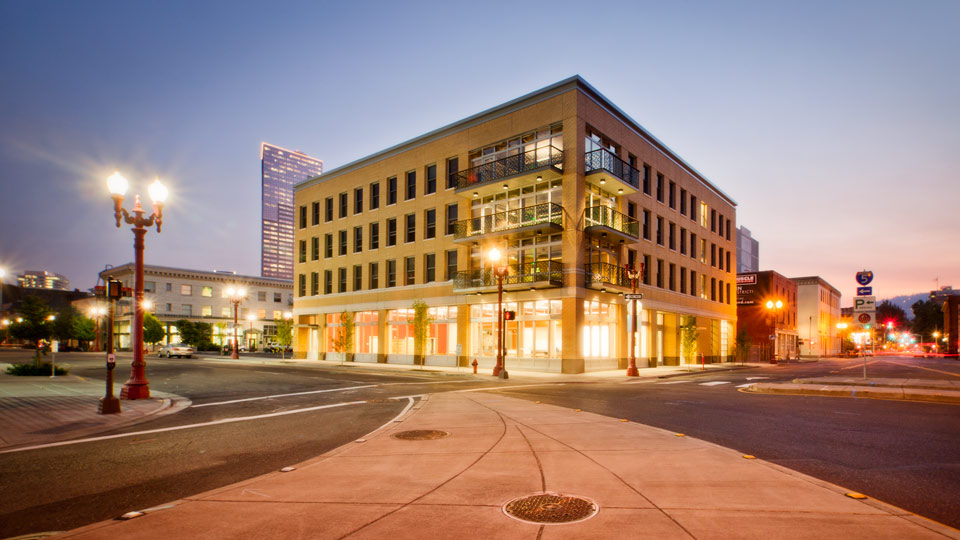
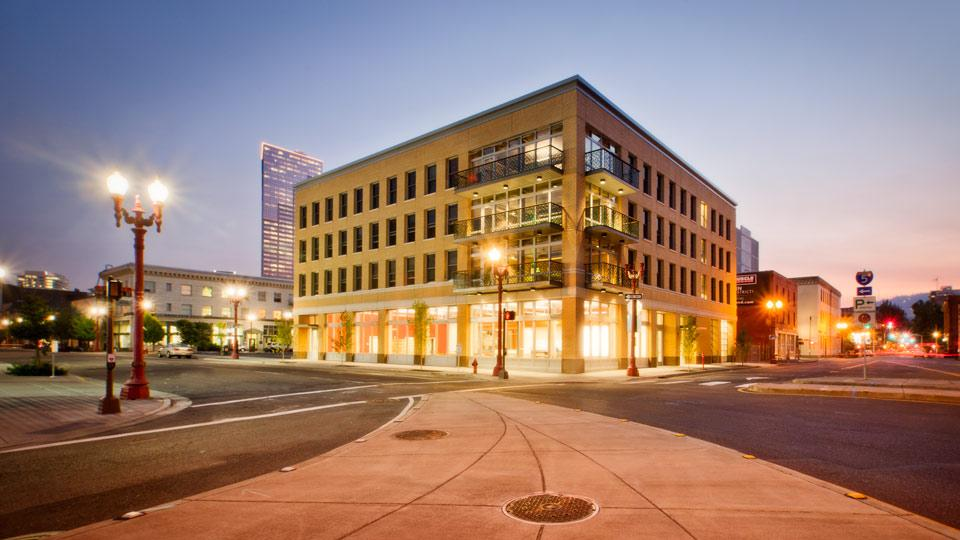
story/AAD-53 (Documentation, Accessibility, & Efficiency) (#19)
* README.md First Draft

* Efficiency - Top-Main Image Size (91.47% Reduced)

* Efficiency - Tri-Home Image Resize-Reductions

* Documentation - Quick Blade Comments/Documentation

* Efficiency - Removing Commented Code (Echo API)

* Documentation - README.md, normalize.css Credits

* Rebranding Cascade - README.md First Draft

* Rebranding Cascade - Welcome & Header blades

* Rebranding Cascade - Various blades & misc.

* merge for pull request #19 (11/17/22)

* Additional map styling (#20)

* Getting coordinate data out of the browser

Console logs the users current location. This will prompt the user to allow their location data being used

* Rebasing off of develop

Updating the branch to now have the changes from develop. Outputs current coords to the console for use in search filters

* Setting up mapbox

Getting basic mapbox displaying and setting up the files needed to run everything

* Adding navigation controls

Added navigation controls to the map, allowing users to input a starting and finishing location and choosing which mode of transportation they want to use. Need to investigate if there is a way to get trimet data for transit lines

* Generate map of shelter locations

* Add shelter marker popup features

* Make route directions responsive

* Integrate map with info page

* Added additional options to get current location

* Additional styling and coordinating map colors to website

* Consistency pass (#21)

* First pass on main page
[…]

diff --git a/resources/js/bootstrap.js b/resources/js/bootstrap.js
@@ -13,24 +13,3 @@ import axios from 'axios';
 window.axios = axios;
 
 window.axios.defaults.headers.common['X-Requested-With'] = 'XMLHttpRequest';
-
-/**
- * Echo exposes an expressive API for subscribing to channels and listening
- * for events that are broadcast by Laravel. Echo and event broadcasting
- * allows your team to easily build robust real-time web applications.
- */
-
-// import Echo from 'laravel-echo';
-
-// import Pusher from 'pusher-js';
-// window.Pusher = Pusher;
-
-// window.Echo = new Echo({
-//     broadcaster: 'pusher',
-//     key: import.meta.env.VITE_PUSHER_APP_KEY,
-//     wsHost: import.meta.env.VITE_PUSHER_HOST ?? `ws-${import.meta.env.VITE_PUSHER_APP_CLUSTER}.pusher.com`,
-//     wsPort: import.meta.env.VITE_PUSHER_PORT ?? 80,
-//     wssPort: import.meta.env.VITE_PUSHER_PORT ?? 443,
-//     forceTLS: (import.meta.env.VITE_PUSHER_SCHEME ?? 'https') === 'https',
-//     enabledTransports: ['ws', 'wss'],
-// });

diff --git a/public/css/custom.css b/public/css/custom.css
@@ -1,3 +1,12 @@
+
+/*
+Portland Aid Guide's color-palate:
+#F0EBE3 Tan
+#E4DCCF Dark Tan
+#7D9D9C Light Green
+#576F72 Dark Green
+*/
+
 h1 {
     color: #576F72;
 }
@@ -59,7 +68,6 @@ h1 {
     --bs-btn-active-color: #F0EBE3;
     --bs-btn-active-bg: #576F72;
 }
-
 
 .form-check-input {
     box-shadow: rgba(0, 0, 0, 0.24) 0px 3px 8px;

diff --git a/resources/views/includes/header.blade.php b/resources/views/includes/header.blade.php
@@ -1,3 +1,10 @@
+<!--
+    Portland Aid Guide, SF '22
+    header.blade.php - Contains important front-end resources.
+    Uses Google Fonts, normalize.css v8.0.1. (MIT License | github.com/necolas/normalize.css),
+    Bootstrap (CSS & JS), Axios, jQuery, Popper.js, and FontAwesome Kit (JavaScript).
+-->
+
 <!DOCTYPE html>
 <html lang="{{ str_replace('_', '-', app()->getLocale()) }}">
     <head>
@@ -13,7 +20,7 @@
 
         <!-- Styles -->
         <style>
-            /*! normalize.css v8.0.1 | MIT License | github.com/necolas/normalize.css */
+            /*! See header comment for credits. */
             html{line-height:1.15;-webkit-text-size-adjust:100%}body{margin:0}a{background-color:transparent}[hidden]{display:none}html{font-family:system-ui,-apple-system,BlinkMacSystemFont,Segoe UI,Roboto,Helvetica Neue,Arial,Noto Sans,sans-serif,Apple Color Emoji,Segoe UI Emoji,Segoe UI Symbol,Noto Color Emoji;line-height:1.5}*,:after,:before{box-sizing:border-box;border:0 solid #e2e8f0}a{color:inherit;text-decoration:inherit}svg,video{display:block;vertical-align:middle}video{max-width:100%;height:auto}.bg-white{--bg-opacity:1;background-color:#fff;background-color:rgba(255,255,255,var(--bg-opacity))}.bg-gray-100{--bg-opacity:1;background-color:#f7fafc;background-color:rgba(247,250,252,var(--bg-opacity))}.border-gray-200{--border-opacity:1;border-color:#edf2f7;border-color:rgba(237,242,247,var(--border-opacity))}.border-t{border-top-width:1px}.flex{display:flex}.grid{display:grid}.hidden{display:none}.items-center{align-items:center}.justify-center{justify-content:center}.font-semibold{font-weight:600}.h-5{height:1.25rem}.h-8{height:2rem}.h-16{height:4rem}.text-sm{font-size:.875rem}.text-lg{font-size:1.125rem}.leading-7{line-height:1.75rem}.mx-auto{margin-left:auto;margin-right:auto}.ml-1{margin-left:.25rem}.mt-2{margin-top:.5rem}.mr-2{margin-right:.5rem}.ml-2{margin-left:.5rem}.mt-4{margin-top:1rem}.ml-4{margin-left:1rem}.mt-8{margin-top:2rem}.ml-12{margin-left:3rem}.-mt-px{margin-top:-1px}.max-w-6xl{max-width:72rem}.min-h-screen{min-height:100vh}.overflow-hidden{overflow:hidden}.p-6{padding:1.5rem}.py-4{padding-top:1rem;padding-bottom:1rem}.px-6{padding-left:1.5rem;padding-right:1.5rem}.pt-8{padding-top:2rem}.fixed{position:fixed}.relative{position:relative}.top-0{top:0}.right-0{right:0}.shadow{box-shadow:0 1px 3px 0 rgba(0,0,0,.1),0 1px 2px 0 rgba(0,0,0,.06)}.text-center{text-align:center}.text-gray-200{--text-opacity:1;color:#edf2f7;color:rgba(237,242,247,var(--text-opacity))}.text-gray-300{--text-opacity:1;color:#e2e8f0;color:rgba(226,232,240,var(--text-opacity))}.text-gray-400{--text-opacity:1;color:#cbd5e0;color:rgba(203,213,224,var(--text-opacity))}.text-gray-500{--text-opacity:1;color:#a0aec0;color:rgba(160,174,192,var(--text-opacity))}.text-gray-600{--text-opacity:1;color:#718096;color:rgba(113,128,150,var(--text-opacity))}.text-gray-700{--text-opacity:1;color:#4a5568;color:rgba(74,85,104,var(--text-opacity))}.text-gray-900{--text-opacity:1;color:#1a202c;color:rgba(26,32,44,var(--text-opacity))}.underline{text-decoration:underline}.antialiased{-webkit-font-smoothing:antialiased;-moz-osx-font-smoothing:grayscale}.w-5{width:1.25rem}.w-8{width:2rem}.w-auto{width:auto}.grid-cols-1{grid-template-columns:repeat(1,minmax(0,1fr))}@media (min-width:640px){.sm\:rounded-lg{border-radius:.5rem}.sm\:block{display:block}.sm\:items-center{align-items:center}.sm\:justify-start{justify-content:flex-start}.sm\:justify-between{justify-content:space-between}.sm\:h-20{height:5rem}.sm\:ml-0{margin-left:0}.sm\:px-6{padding-left:1.5rem;padding-right:1.5rem}.sm\:pt-0{padding-top:0}.sm\:text-left{text-align:left}.sm\:text-right{text-align:right}}@media (min-width:768px){.md\:border-t-0{border-top-width:0}.md\:border-l{border-left-width:1px}.md\:grid-cols-2{grid-template-columns:repeat(2,minmax(0,1fr))}}@media (min-width:1024px){.lg\:px-8{padding-left:2rem;padding-right:2rem}}@media (prefers-color-scheme:dark){.dark\:bg-gray-800{--bg-opacity:1;background-color:#2d3748;background-color:rgba(45,55,72,var(--bg-opacity))}.dark\:bg-gray-900{--bg-opacity:1;background-color:#1a202c;background-color:rgba(26,32,44,var(--bg-opacity))}.dark\:border-gray-700{--border-opacity:1;border-color:#4a5568;border-color:rgba(74,85,104,var(--border-opacity))}.dark\:text-white{--text-opacity:1;color:#fff;color:rgba(255,255,255,var(--text-opacity))}.dark\:text-gray-400{--text-opacity:1;color:#cbd5e0;color:rgba(203,213,224,var(--text-opacity))}.dark\:text-gray-500{--tw-text-opacity:1;color:#6b7280;color:rgba(107,114,128,var(--tw-text-opacity))}}
         </style>
 

diff --git a/resources/views/mapView.blade.php b/resources/views/mapView.blade.php
@@ -1,4 +1,8 @@
-
+<!--
+    Portland Aid Guide, SF '22
+    mapView.blade.php - Contains implementation of the Mapbox.com API for displaying the Portland Aid Guide map & shelter locations.
+    See https://mapbox.com for more API details for further improvements & development.
+-->
 
 @extends('includes.header')
 <script src='https://api.mapbox.com/mapbox-gl-js/v2.10.0/mapbox-gl.js'></script>

diff --git a/resources/views/welcome.blade.php b/resources/views/welcome.blade.php
@@ -1,6 +1,10 @@
+<!--
+    Portland Aid Guide, SF '22
+    welcome.blade.php - The Portland Aid Guide welcome page.
+    Uses Carousel & FontAwesome Kit (JavaScript)
+-->
+
 @extends('includes.header')
-
-
 @section('body')
 @include('includes.filterModal')
 <meta name='viewport' content='width=device-width, initial-scale=1'>

diff --git a/README.md b/README.md
@@ -1,1 +1,71 @@
-# Available-Aid
+# Portland-Aid-Guide
+
+# I. Introduction to *Portland Aid Guide*
+
+## Overview
+
+*Portland Aid Guide* aims to **reduce friction between vulnerable communities and the resources available to them**. It provides **a platform for shelters to broadcast their offerings** through an always *up-to-date* **shelter capacity tracker**. Persons seeking shelter will be able to **quickly find and navigate to the closest shelter** that meets their unique needs with an available bed.
+
+The *Portland Aid Guide* platform will consist of **a mobile web interface utilizing the Laravel framework**.
+
+First, the web interface shall be a volunteer-facing portal for shelter staff to track and update available beds across many shelters. This allows volunteers/staff to provide information to those seeking shelter. Eventually, the web interface should turn outward so that community members may access the information directly ( i.e. user-facing).
+
+Information provided on the web interface should include, but is not limited to: shelters with available beds, nearby shelters, shelter restrictions and regulations, and shelter accommodations.
+
+The goal is for users to be able to quickly gauge which shelter is the best option for them without any prerequisite tech literacy.
+
+The *Portland Aid Guide* platform is committed to be open-sourced with a bare minimum budget for data hosting and server costs.
+
+In situations already fraught with stress and anxiety, *Portland Aid Guide* is intended to be a **reliable**, *easy-to-use* tool, **accessible for all**.
+
+# II. Structure of Portland Aid Guide
+
+## GUI / User Interface
+
+TBA
+
+## Front-End Framework
+
+TBA
+
+## Back-End Framework
+
+TBA
+
+## Database & Infrastructure
+
+TBA
+
+# III. Development Schema
+
+## Front-End
+
+Bootstrap
+
+CSS
+
+PHP
+
+Composer
+
+Laravel / PHP
+
+## Back-End
+
+Google Sheets API
+
+# IV. Development
+
+TBA
+
+# V. Credits & Miscellaneous
+
+*Portland Aid Guide* is licensed under the MIT License, latest as of October 31st, 2022.
+
+Credits to Bootstrap, Laravel, PHP, CSS, and other authors.
+
+Credits to [Necolas](github.com/necolas/normalize.css) for normalize.css v8.0.1 (MIT License).
+
+Special Thanks to [Blanchet House](https://blanchethouse.org/).
+
+*Portland Aid Guide* © October 2022.
